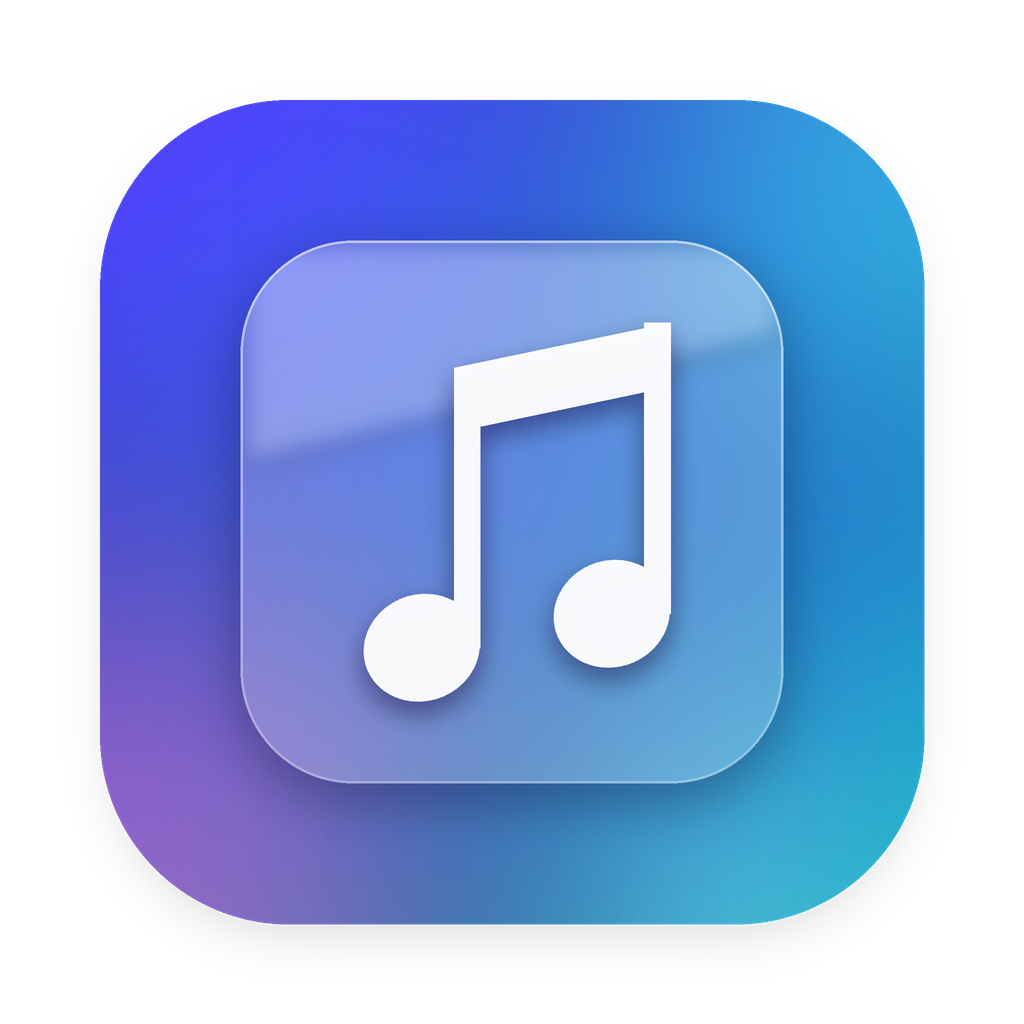
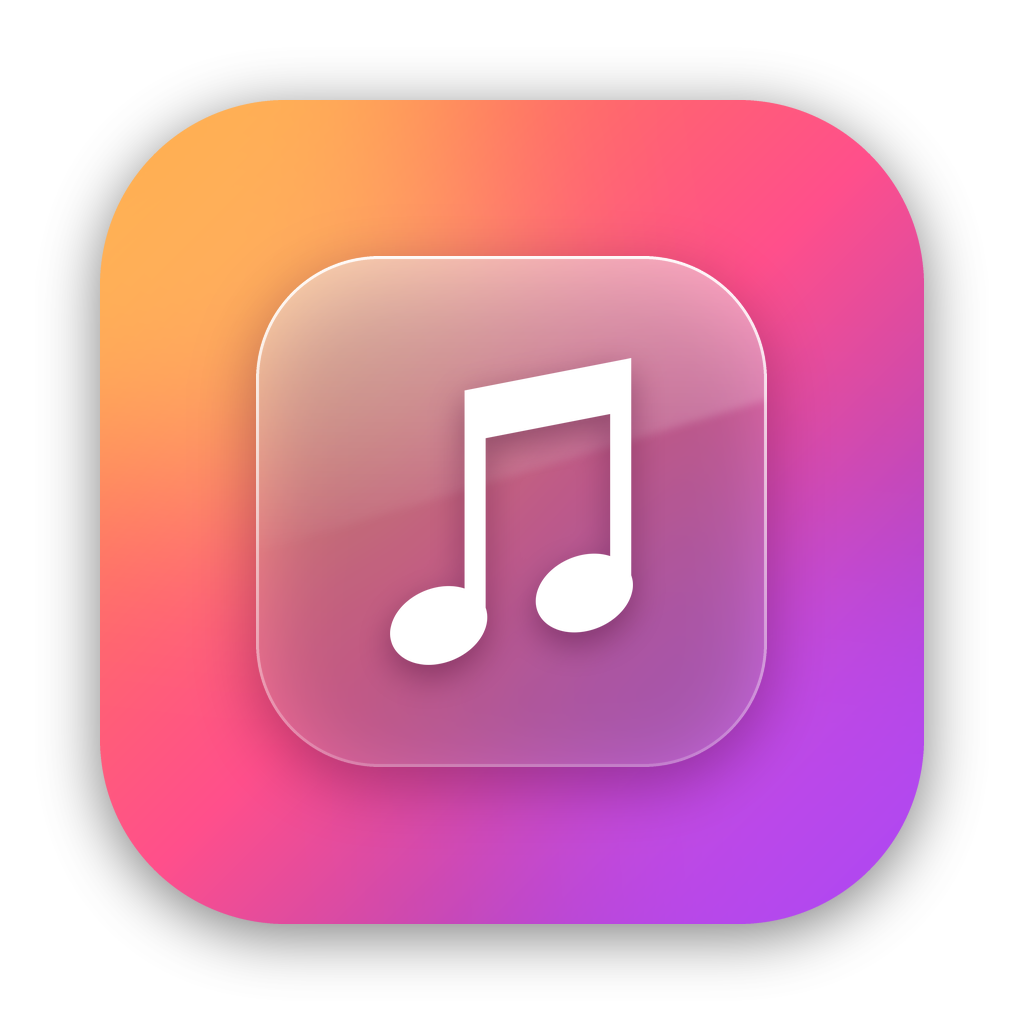
0.1.1: 아이콘을 Podfill 과 구분되는 sunset 테마로 바꿈

diff --git a/README.md b/README.md
@@ -17,7 +17,8 @@
   이 창들은 운영체제 별도 창이라 앱 창 밖으로 옮길 수 있다(popup.rs).
   아이팟에 이미 있는 곡에도 채울 수 있다('아이팟에 넣기' 탭의 '앨범 아트 채우기').
 
-- GUI: Rust + eframe(egui) 0.37, 테마·폰트는 Podfill 과 같은 코드
+- GUI: Rust + eframe(egui) 0.37, 테마·폰트는 Podfill 과 같은 코드. 아이콘은 Podfill 아이콘 생성기(`tools/make-icon.py`)의
+  sunset 테마로, Podfill(보라)과 구분되게 주황·분홍이다
 - 태그·음질 읽기: lofty / 변환: macOS 내장 `afconvert` (추가 설치 없음)
 
 ## 설치 (Homebrew)
